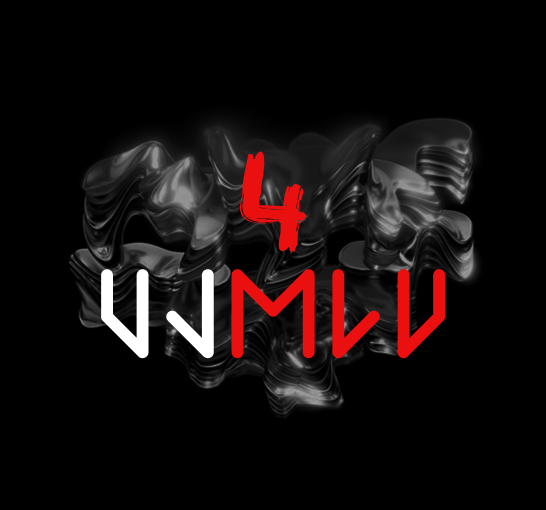
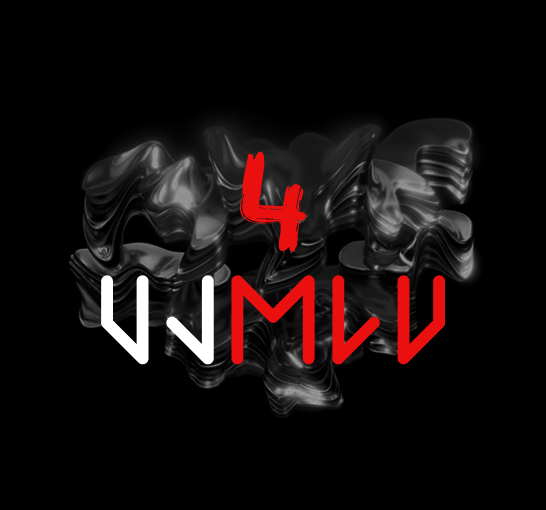
up

diff --git a/src/components/Videos/Videos.jsx b/src/components/Videos/Videos.jsx
@@ -1,49 +1,49 @@
 import "./Videos.scss";
-import IconNr1 from "../../assets/icons/1.svg?react";
-import IconNr2 from "../../assets/icons/2.svg?react";
-import IconNr3 from "../../assets/icons/3.svg?react";
-import IconNr4 from "../../assets/icons/4.svg?react";
-import IconNr5 from "../../assets/icons/5.svg?react";
-import IconNr6 from "../../assets/icons/6.svg?react";
 import IconYT from "../../assets/icons/yt.svg?react";
 import Button from "../ui/Button/Button";
 
 const VideosArr = [
   {
     title: "Liquid",
+    src: "https://www.youtube.com/embed/tsDyOTnswgg?si=hoMCyfqNRKoZCmEN",
     description:
       "Simply insert a single line of code to execute any function seamlessly in the cloud. This allows you to benefit from immediate autoscaling",
-    icon: <IconNr1 />,
+    number: "1",
   },
   {
     title: "Dark Ages",
+    src: "https://www.youtube.com/embed/lUdGRH8NQek?si=Z8yKHTHbz_89LDbP",
     description:
       "With just a quick snippet of code, you can effortlessly run any task in the cloud. Experience the power of instant scalability at your fingertips!",
-    icon: <IconNr2 />,
+    number: "2",
   },
   {
     title: "Black Fortune",
+    src: "https://www.youtube.com/embed/cFWXAD9kryI?si=8tc4tZ_87rd3MLZp",
     description:
       "With just a quick snippet of code, you can effortlessly run any task in the cloud. Experience the power of instant scalability at your fingertips!",
-    icon: <IconNr3 />,
+    number: "3",
   },
   {
     title: "Field of Glory",
+    src: "https://www.youtube.com/embed/6xb898sQtu8?si=zmR8XLGCaeip1XEb",
     description:
       "With just a quick snippet of code, you can effortlessly run any task in the cloud. Experience the power of instant scalability at your fingertips!",
-    icon: <IconNr4 />,
+    number: "4",
   },
   {
     title: "New World",
+    src: "https://www.youtube.com/embed/XiejXrjMObM?si=5cHgG_MoL9XlQeAy",
     description:
       "With just a quick snippet of code, you can effortlessly run any task in the cloud. Experience the power of instant scalability at your fingertips!",
-    icon: <IconNr5 />,
+    number: "5",
   },
   {
     title: "Evil Touch",
+    src: "https://www.youtube.com/embed/oHYaOdIyuQA?si=NHB5NprhvhZMpVmD",
     description:
       "With just a quick snippet of code, you can effortlessly run any task in the cloud. Experience the power of instant scalability at your fingertips!",
-    icon: <IconNr6 />,
+    number: "6",
   },
 ];
 
@@ -75,7 +75,7 @@ function Videos() {
               <iframe
                 width="560"
                 height="315"
-                src="https://www.youtube.com/embed/SzYiiN7GNJc?si=8lKPkNGqXKG2uW2n"
+                src={video.src}
                 title="YouTube video player"
                 frameBorder="0"
                 allow="accelerometer; autoplay; clipboard-write; encrypted-media; gyroscope; picture-in-picture; web-share"
@@ -84,7 +84,7 @@ function Videos() {
               ></iframe>
             </div>
             <div className="video__content">
-              <div className="video__icon-wrapper">{video.icon}</div>
+              <p className="video__number">{video.number}</p>
               <section className="video__section">
                 <h2 className="video__title">{video.title}</h2>
                 <p className="video__description">

diff --git a/src/components/Videos/Videos.scss b/src/components/Videos/Videos.scss
@@ -21,33 +21,39 @@
     text-align: center;
     padding: 0 1.5rem;
   }
-  &__buttons{
+  &__buttons {
     width: max-content;
-    margin: 0 auto 2rem auto ;
+    margin: 0 auto 2rem auto;
   }
 }
 .video {
   &__preview {
     background-color: var(--grey);
     aspect-ratio: 16/9;
-     height: 100%;
+    height: 100%;
     & iframe {
       width: 100%;
       height: 100%;
     }
   }
   &__content {
+    overflow: hidden;
     display: flex;
     padding: 3rem 1.5rem 3rem 0;
   }
-  &__icon-wrapper {
+  &__number {
     width: 6.25rem;
     flex-shrink: 0;
     display: flex;
     align-items: center;
+    line-height: 0.5rem;
     justify-content: center;
+    font-family: var(--font-secondary);
+    color: var(--primary);
+    font-size: 6.25rem;
   }
   &__title {
+    font-size: 1.4375rem;
     color: var(--white);
     margin-bottom: 1rem;
   }
@@ -56,16 +62,14 @@
     position: relative;
   }
   &__element {
-    font-size: 8rem;
-    z-index: -1;
-    position: absolute;
-    color: var(--grey);
+    font-family: var(--font-secondary);
+    color: var(--primary);
     &--first {
-      top: -3rem;
-      left: -2rem;
+      margin-left: -0.9375rem;
+      padding-right: 0.3125rem;
     }
     &--last {
-     top: calc(100% - 3rem);
+      padding-left: 0.3125rem;
     }
   }
 }

diff --git a/src/index.scss b/src/index.scss
@@ -1,4 +1,4 @@
-@import url("https://fonts.googleapis.com/css2?family=Inter:ital,opsz,wght@0,14..32,100..900;1,14..32,100..900&family=Sora:wght@100..800&display=swap");
+@import url('https://fonts.googleapis.com/css2?family=Finger+Paint&family=Inter:ital,opsz,wght@0,14..32,100..900;1,14..32,100..900&family=Sora:wght@100..800&display=swap');
 
 :root {
   --primary: #10ea47;
@@ -19,6 +19,10 @@
   --bold: 700;
 
   --transition: all 0.2s ease-out;
+
+  --font-body:   "Inter", sans-serif;
+  --font-primary: "Sora", sans-serif;
+  --font-secondary:   "Finger Paint", sans-serif;
 }
 
 html {
@@ -35,8 +39,8 @@ html {
 }
 
 body {
-  font-family: "Inter", sans-serif;
-  font-size: 1.125rem;
+  font-family: var(--font-body);
+  font-size: 1rem;
   background-color: var(--black);
   color: var(--black);
   overflow: auto;
@@ -51,7 +55,7 @@ h3,
 h4,
 h5,
 h6 {
-  font-family: "Sora", sans-serif;
+  font-family: var(--font-primary);
 }
 
 button {

diff --git a/src/components/BioSection/BioSection.jsx b/src/components/BioSection/BioSection.jsx
@@ -1,0 +1,21 @@
+import Button from "../ui/Button/Button";
+import bio from "../../assets/images/me.png";
+import "./BioSection.scss"
+
+function BioSection() {
+  return (
+  <section className="bio">
+    <img className="bio__image" src={bio} alt="" />
+    <section className="bio__section">
+        <h2 className="bio__title">Kamil Malinowski</h2>
+        <p className="bio__subtitle">Założyciel, perkusista</p>
+        <p className="bio__description">Lorem ipsum dolor sit, amet consectetur adipisicing elit. Error quam, itaque ipsam est eveniet aperiam eos optio suscipit! Hic eveniet quasi illum optio velit facere commodi tenetur esse animi modi.</p>
+        <div className="bio__buttons">
+        <Button text="Read more" variant="secondary"/>
+        </div>
+    </section>
+  </section>
+  );
+}
+
+export default BioSection;

diff --git a/src/components/ui/Button/Button.scss b/src/components/ui/Button/Button.scss
@@ -7,6 +7,8 @@
   justify-content: center;
   font-weight: var(--medium);
   transition: var(--transition);
+  font-size: inherit;
+  padding: 0 1.75rem;
   &--primary {
     border: none;
     background-color: var(--primary);
@@ -16,6 +18,7 @@
     }
   }
   &--secondary {
+    background-color: transparent;
     color: var(--white);
     border: 1px solid var(--white-50);
     &:hover {
@@ -39,12 +42,13 @@
   &.icon-left {
     padding: 0 1.75rem 0 0.125rem;
   }
-  &.icon-only{
-      height: 2.75rem;
-      width: 2.75rem;
-      &__text{
-        display: none;
-      }
+  &.icon-only {
+    padding: 0;
+    height: 2.75rem;
+    width: 2.75rem;
+    &__text {
+      display: none;
+    }
   }
   &.play {
     flex-shrink: 0;
@@ -52,5 +56,4 @@
     width: 5.5rem;
     font-size: 1rem;
   }
-
 }

diff --git a/src/App.jsx b/src/App.jsx
@@ -6,6 +6,7 @@ import NavPopup from "./components/NavPopup/NavPopup";
 import HeroSection from "./components/HeroSection/HeroSection";
 import MusicPlayer from "./components/MusicPlayer/MusicPlayer";
 import Videos from "./components/Videos/Videos";
+import BioSection from "./components/BioSection/BioSection";
 
 function App() {
   const [menuOpen, setMenuOpen] = useState(false);
@@ -28,6 +29,7 @@ function App() {
         <HeroSection />
         <MusicPlayer />
         <Videos/>
+        <BioSection/>
       </main>
     </>
   );

diff --git a/src/components/MusicPlayer/MusicPlayer.scss b/src/components/MusicPlayer/MusicPlayer.scss
@@ -30,6 +30,7 @@
     margin-bottom: 1rem;
   }
   &__subtitle {
+    font-size: 1.125rem;
     font-weight: var(--medium);
     color: var(--white-80);
     margin-bottom: 2rem;
@@ -61,5 +62,4 @@
     border-radius: 0 var(--radius-full) var(--radius-full) 0;
     background-color: var(--primary);
   }
-
 }

diff --git a/src/components/BioSection/BioSection.scss b/src/components/BioSection/BioSection.scss
@@ -1,0 +1,13 @@
+.bio{
+    padding: 1.5rem;
+    color: var(--white);
+
+    &__image{  width: 100%;}
+&__section{}
+&__title{}
+&__subtitle{}
+&__description{}
+&__buttons{
+    margin: 0 auto;
+}
+}
